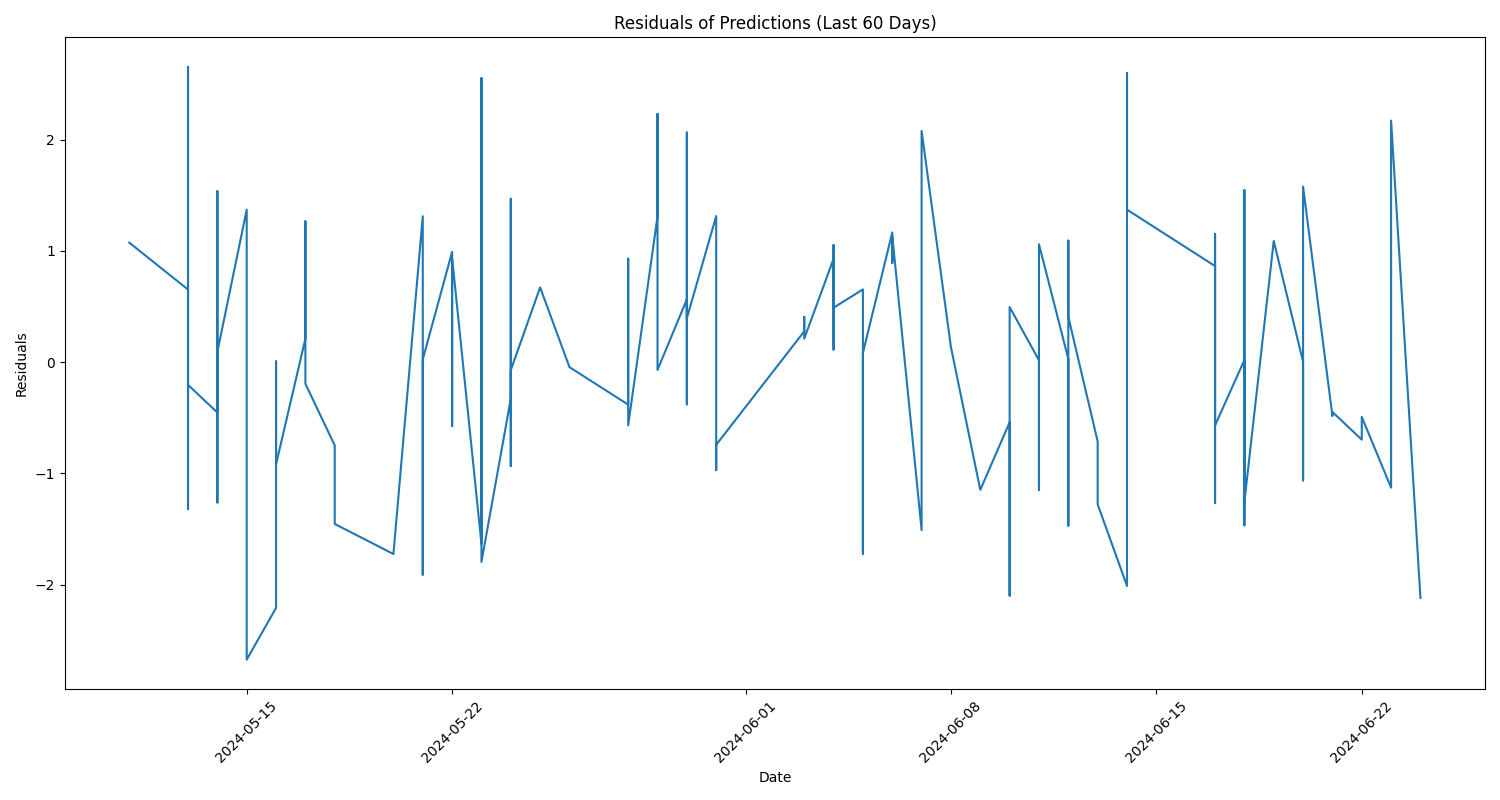
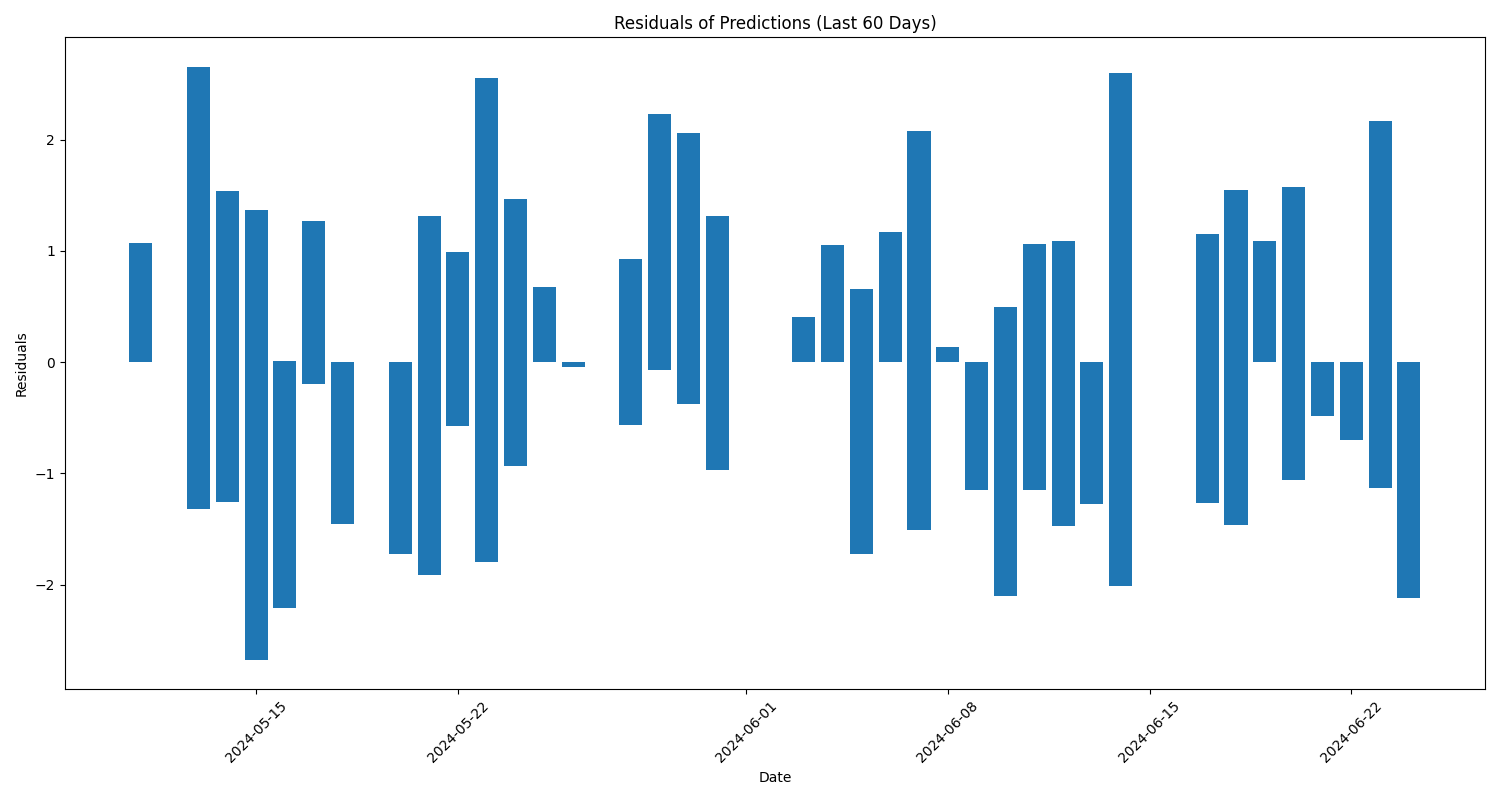
visual

diff --git a/code/machine_learning/n_beats.py b/code/machine_learning/n_beats.py
@@ -140,10 +140,10 @@ best_model = torch.load('best_nbeats_model.pth', weights_only=True)
 model.load_state_dict(best_model)
 
 # Load the losses
-with open('losses.pkl', 'rb') as f:
-    losses = pickle.load(f)
-    train_losses = losses['train_losses']
-    val_losses = losses['val_losses']
+# with open('losses.pkl', 'rb') as f:
+#     losses = pickle.load(f)
+#     train_losses = losses['train_losses']
+#     val_losses = losses['val_losses']
 
 
 model.eval()
@@ -162,16 +162,16 @@ final_targets = np.concatenate(final_targets)
 
 import matplotlib.pyplot as plt
 
-# Plotting the training and validation loss curves
-plt.figure(figsize=(10, 5))
-plt.plot(train_losses, label='Training Loss')
-plt.plot(val_losses, label='Validation Loss')
-plt.xlabel('Epoch')
-plt.ylabel('Loss')
-plt.title('Training and Validation Loss Over Epochs')
-plt.legend()
-plt.savefig(os.path.join(output_folder, 'loss_curves.png'))
-plt.show()
+# # Plotting the training and validation loss curves
+# plt.figure(figsize=(10, 5))
+# plt.plot(train_losses, label='Training Loss')
+# plt.plot(val_losses, label='Validation Loss')
+# plt.xlabel('Epoch')
+# plt.ylabel('Loss')
+# plt.title('Training and Validation Loss Over Epochs')
+# plt.legend()
+# plt.savefig(os.path.join(output_folder, 'loss_curves.png'))
+# plt.show()
 
 
 
@@ -219,7 +219,7 @@ plt.figure(figsize=(15, 8))
 residuals = data.iloc[train_size:train_size+len(final_predictions), 0].values - final_predictions[:, 0]
 
 # Plot residuals for the last 60 days
-plt.plot(pred_dates[last_60_pred_mask], residuals[last_60_pred_mask], label='Residuals')
+plt.bar(pred_dates[last_60_pred_mask], residuals[last_60_pred_mask], label='Residuals')
 
 plt.title('Residuals of Predictions (Last 60 Days)')
 plt.xlabel('Date')
